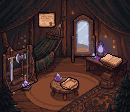
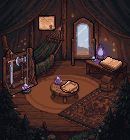
Character page: taller tent crop (130x140), new doll position
Claude-Session: https://claude.ai/code/session_01VgWDma9wRVh94nUCbzKnsT

diff --git a/character/index.html b/character/index.html
@@ -29,12 +29,12 @@ canvas{image-rendering:pixelated;display:block}
 .toast.on{opacity:1}
 
 /* ===== tent room (130 x 112 art pixels, shown scaled) ===== */
-.room{position:relative;width:100%;aspect-ratio:130/112;background:#0c0705;overflow:hidden;container-type:inline-size}
+.room{position:relative;width:100%;aspect-ratio:130/140;background:#0c0705;overflow:hidden;container-type:inline-size}
 .room canvas{position:absolute;display:block;image-rendering:pixelated}
 #bgimg,#tbl{position:absolute;left:0;top:0;width:100%;height:100%;image-rendering:pixelated}
 #tbl{z-index:5;pointer-events:none}
-#doll{left:21.38%;top:24.6%;width:48%;height:55.7%;z-index:3}
-.glow{position:absolute;left:77.2%;top:43.1%;width:70%;aspect-ratio:1;transform:translate(-50%,-50%);border-radius:50%;z-index:1;pointer-events:none;mix-blend-mode:screen;background:radial-gradient(circle,rgba(205,140,255,.85) 0,rgba(160,90,235,.45) 22%,rgba(120,60,200,.18) 48%,rgba(100,50,180,0) 70%);animation:glowbr 3.2s ease-in-out infinite}
+#doll{left:18.31%;top:21.29%;width:48%;height:44.57%;z-index:3}
+.glow{position:absolute;left:77.23%;top:36.64%;width:70%;aspect-ratio:1;transform:translate(-50%,-50%);border-radius:50%;z-index:1;pointer-events:none;mix-blend-mode:screen;background:radial-gradient(circle,rgba(205,140,255,.85) 0,rgba(160,90,235,.45) 22%,rgba(120,60,200,.18) 48%,rgba(100,50,180,0) 70%);animation:glowbr 3.2s ease-in-out infinite}
 @keyframes glowbr{0%,100%{opacity:.65;transform:translate(-50%,-50%) scale(.92)}50%{opacity:1;transform:translate(-50%,-50%) scale(1.06)}}
 @media (prefers-reduced-motion:reduce){.glow{animation:none}}
 .hs{position:absolute;z-index:6;background:none;border:0;padding:0;margin:0;cursor:pointer;color:inherit}
@@ -146,10 +146,10 @@ select.sel.bad{color:var(--seal);border-color:var(--seal)}
   <div class="top"><h1>角色</h1></div>
   <main class="main">
     <section class="room" id="room" aria-label="角色頁">
-      <img id="bgimg" src="../assets/character/tent_bg.png?v=1" alt="">
+      <img id="bgimg" src="../assets/character/tent_bg.png?v=2" alt="">
       <div class="glow"></div>
       <canvas id="doll" width="48" height="48"></canvas>
-      <img id="tbl" src="../assets/character/tent_table.png?v=1" alt="">
+      <img id="tbl" src="../assets/character/tent_table.png?v=2" alt="">
       <div id="hsHost" style="display:contents"></div>
     </section>
     <div class="card" id="cardText"></div>
@@ -510,14 +510,14 @@ sheet.addEventListener('click',function(e){var b=e.target.closest('[data-a]');if
 sheet.addEventListener('change',function(e){var t=e.target;if(t.tagName==='SELECT'&&t.getAttribute('data-g')){S.look[t.getAttribute('data-g')]=/^\d+$/.test(t.value)?+t.value:t.value;updateMirror()}});
 back.addEventListener('click',function(e){if(e.target===back)closeSheet()});
 document.addEventListener('keydown',function(e){if(e.key==='Escape'&&cur)closeSheet()});
-var HS=[{k:'rack',l:'武器架：更換武器',x:2,y:44,w:36,h:41,p:'武器架',px:20,py:38,b:'更換武器'},
-  {k:'card',l:'公會證：查看職業',x:38,y:12,w:18,h:16,p:'公會證',px:47,py:11,b:'查看職業'},
-  {k:'paper',l:'人物誌：屬性',x:60,y:77,w:19,h:14,p:'人物誌',px:69.5,py:92,dn:1,id:'pillPaper',b:'屬性',bid:'btnPaper'},
-  {k:'mirror',l:'鏡子：外觀',x:70,y:13,w:27,h:49,p:'鏡子',px:83,py:12,b:'外觀'},
-  {k:'book',l:'技能書：技能',x:99,y:53,w:24,h:16,p:'技能書',px:111,py:47,b:'技能'}];
+var HS=[{k:'rack',l:'武器架：更換武器',x:2,y:47,w:36,h:41,p:'武器架',px:20,py:41,b:'更換武器'},
+  {k:'card',l:'公會證：查看職業',x:38,y:15,w:18,h:16,p:'公會證',px:47,py:14,b:'查看職業'},
+  {k:'paper',l:'人物誌：屬性',x:60,y:80,w:19,h:14,p:'人物誌',px:69.5,py:95,dn:1,id:'pillPaper',b:'屬性',bid:'btnPaper'},
+  {k:'mirror',l:'鏡子：外觀',x:70,y:16,w:27,h:49,p:'鏡子',px:83,py:15,b:'外觀'},
+  {k:'book',l:'技能書：技能',x:99,y:56,w:24,h:16,p:'技能書',px:111,py:50,b:'技能'}];
 (function(){var host=$('hsHost'),bar=$('acts5');HS.forEach(function(h){var b=document.createElement('button');b.className='hs';b.type='button';b.setAttribute('data-k',h.k);b.setAttribute('aria-label',h.l);
-  b.style.cssText='left:'+(h.x/130*100)+'%;top:'+(h.y/112*100)+'%;width:'+(h.w/130*100)+'%;height:'+(h.h/112*100)+'%';b.addEventListener('click',function(){openSheet(h.k)});host.appendChild(b);
-  var sp=document.createElement('span');sp.className='pill'+(h.dn?' dn':'');if(h.id)sp.id=h.id;sp.style.cssText='left:'+(h.px/130*100)+'%;top:'+(h.py/112*100)+'%';sp.textContent=h.p;host.appendChild(sp);
+  b.style.cssText='left:'+(h.x/130*100)+'%;top:'+(h.y/140*100)+'%;width:'+(h.w/130*100)+'%;height:'+(h.h/140*100)+'%';b.addEventListener('click',function(){openSheet(h.k)});host.appendChild(b);
+  var sp=document.createElement('span');sp.className='pill'+(h.dn?' dn':'');if(h.id)sp.id=h.id;sp.style.cssText='left:'+(h.px/130*100)+'%;top:'+(h.py/140*100)+'%';sp.textContent=h.p;host.appendChild(sp);
   var bb=document.createElement('button');bb.type='button';bb.textContent=h.b;if(h.bid)bb.id=h.bid;bb.addEventListener('click',function(){openSheet(h.k)});bar.appendChild(bb)})})();
 
 /* ================= doll + weapon sprite ================= */
